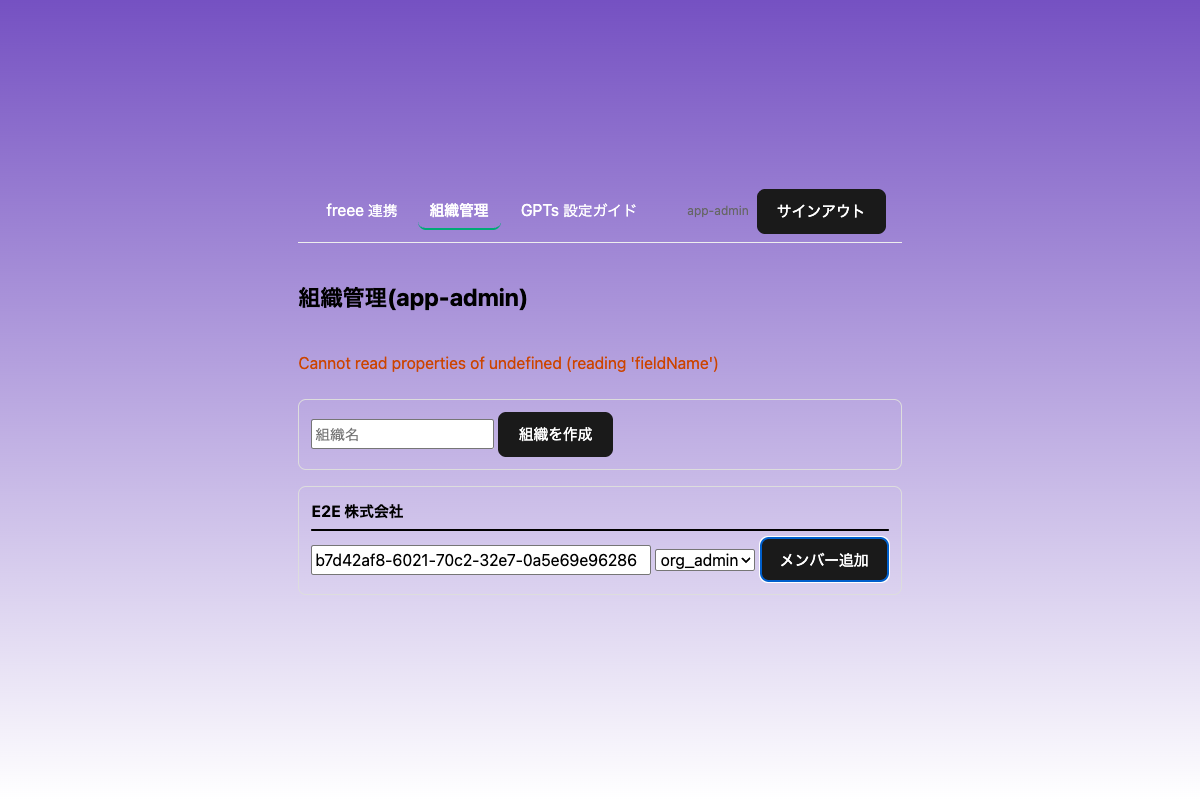
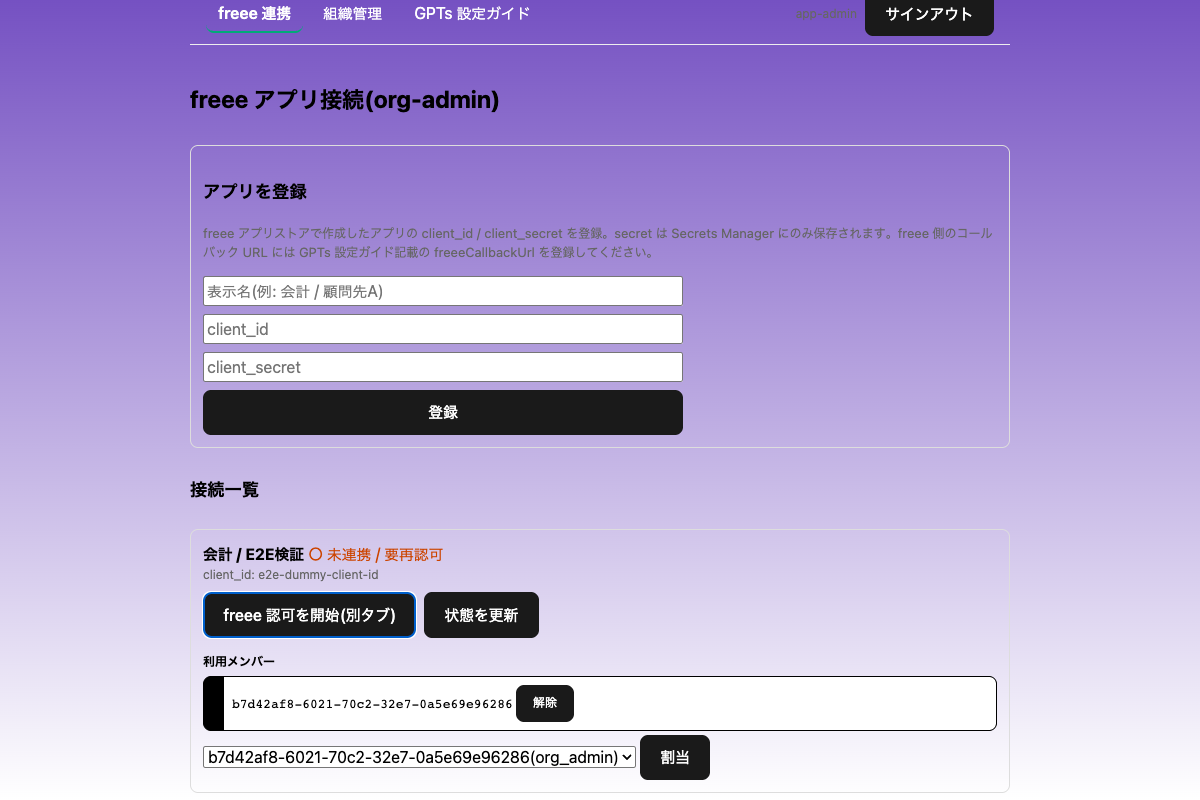
fix(gui): refresh the grants list after grant/revoke (refreshKey into card effect)
Caught by screen-operation e2e: the card effect depended only on conn.id, so a
successful grant never appeared until remount.

diff --git a/src/App.tsx b/src/App.tsx
@@ -72,6 +72,7 @@ function ConnectionsPanel({ me }: { me: Me }) {
   const [members, setMembers] = useState<MemberRow[]>([]);
   const [error, run] = useAsyncError();
   const [form, setForm] = useState({ label: '', clientId: '', clientSecret: '' });
+  const [refreshKey, setRefreshKey] = useState(0);
 
   const reload = useCallback(async () => {
     if (!orgId) return;
@@ -80,6 +81,7 @@ function ConnectionsPanel({ me }: { me: Me }) {
     setConns((typeof data === 'string' ? JSON.parse(data) : data) as ConnRow[]);
     const m = await client.models.Membership.listMembershipByOrgId({ orgId });
     setMembers(m.data);
+    setRefreshKey((k) => k + 1); // ConnectionCard の grants effect を再発火させる
   }, [orgId]);
 
   useEffect(() => {
@@ -158,6 +160,7 @@ function ConnectionsPanel({ me }: { me: Me }) {
         <ConnectionCard
           key={c.id}
           conn={c}
+          refreshKey={refreshKey}
           members={members}
           onAuthorize={authorize}
           onGrant={grant}
@@ -170,12 +173,14 @@ function ConnectionsPanel({ me }: { me: Me }) {
 
 function ConnectionCard({
   conn,
+  refreshKey,
   members,
   onAuthorize,
   onGrant,
   onChanged,
 }: {
   conn: ConnRow;
+  refreshKey: number;
   members: MemberRow[];
   onAuthorize: (id: string) => void;
   onGrant: (connectionId: string, userSub: string) => void;
@@ -201,7 +206,7 @@ function ConnectionCard({
     return () => {
       alive = false;
     };
-  }, [conn.id]);
+  }, [conn.id, refreshKey]);
 
   async function revoke(userSub: string) {
     await client.mutations.revokeConnection({ connectionId: conn.id, userSub });
